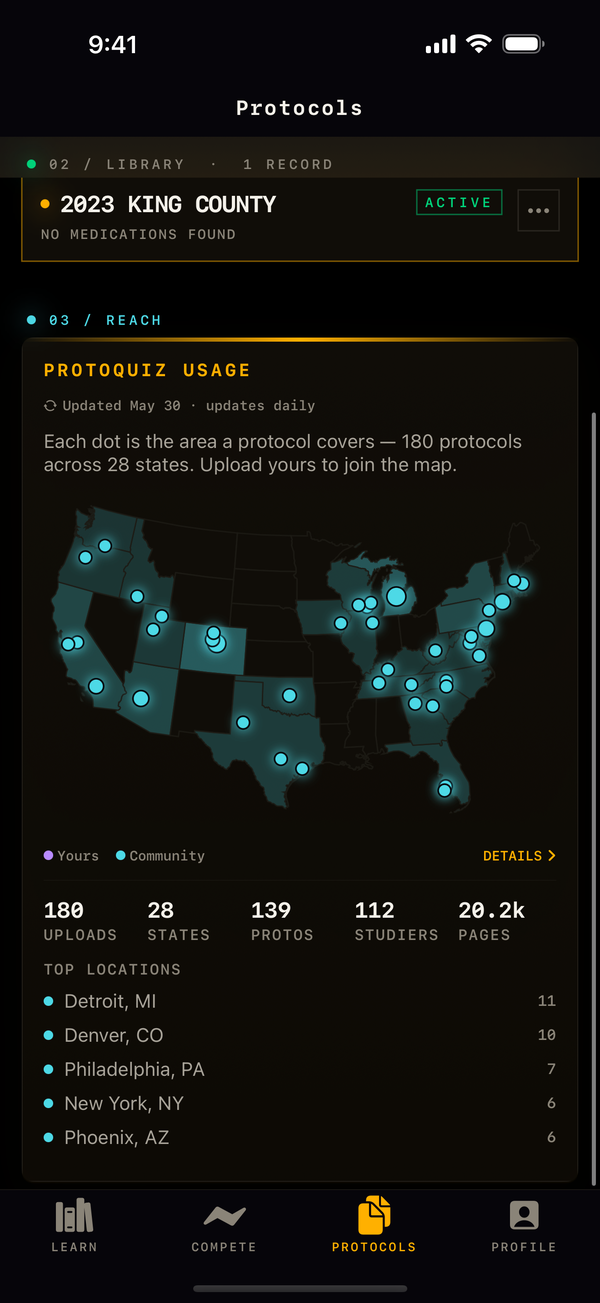
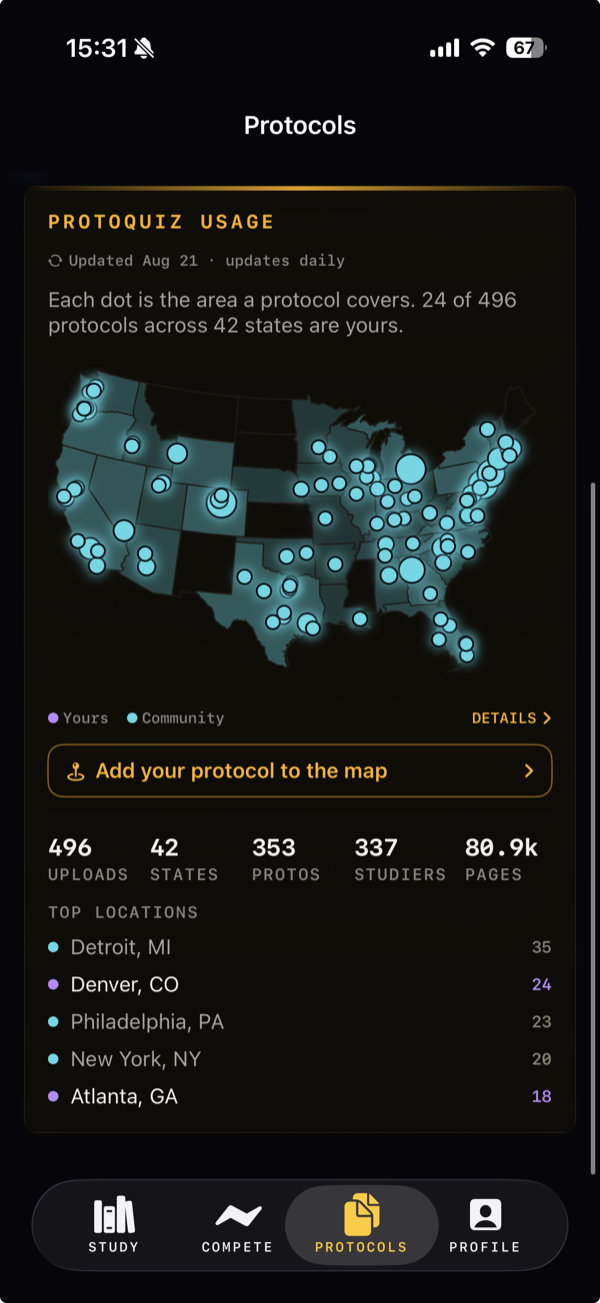
app: tabbed screenshot showcase, refresh protocols shot
Six 180px frames were too small to read, dimmed by a brightness/sepia
filter, and cropped by object-fit:cover. Replaced with a tabbed showcase:
one screen at a time in a CSS device frame, full screenshot uncropped, no
filter, with a headline and copy for each. Tabs are keyboard-navigable
(arrow keys, roving tabindex).

Protocols screenshot updated to the Aug 21 build (496 uploads / 42 states,
was 180 / 28); previous file kept in app-shots/backup/.

diff --git a/index.html b/index.html
@@ -1427,32 +1427,73 @@
       color:var(--ink-soft);
     }
 
-    .app-shots{
+    .shot-tabs{
+      display:flex;
+      border-bottom:1px solid var(--line-2);
+      margin-bottom:44px;
+      overflow-x:auto;
+      scrollbar-width:none;
+    }
+    .shot-tabs::-webkit-scrollbar{display:none;}
+    .shot-tab{
+      font-family:var(--mono);
+      font-size:12px;
+      letter-spacing:.12em;
+      text-transform:uppercase;
+      padding:14px 20px;
+      color:var(--muted);
+      cursor:pointer;
+      background:none;
+      border:none;
+      border-bottom:2px solid transparent;
+      margin-bottom:-1px;
+      white-space:nowrap;
+      transition:color .2s, border-color .2s;
+    }
+    .shot-tab:hover{color:var(--ink-soft);}
+    .shot-tab[aria-selected="true"]{color:var(--amber); border-bottom-color:var(--amber);}
+    .shot-tab:focus-visible{outline:2px solid var(--amber); outline-offset:-2px;}
+    .shot-stage{
       display:grid;
-      grid-template-columns:repeat(6, 1fr);
-      gap:18px;
+      grid-template-columns:300px minmax(0,520px);
+      gap:64px;
+      align-items:center;
+      justify-content:center;
     }
-    .shot-cell{position:relative; margin:0;}
-    .shot-frame{
+    .shot-device{
       position:relative;
-      aspect-ratio: 9/19.5;
-      background:var(--bg);
-      border:1px solid var(--line-2);
+      border-radius:26px;
+      padding:6px;
+      background:linear-gradient(160deg,#3a352c,#141118 42%,#0a0810);
+      box-shadow:0 1px 0 rgba(255,255,255,.10) inset, 0 18px 40px -18px rgba(0,0,0,.9);
+    }
+    .shot-device::after{
+      content:"";
+      position:absolute; left:50%; transform:translateX(-50%); top:6px;
+      width:26%; height:15px; background:#000;
+      border-radius:0 0 11px 11px; z-index:2;
+    }
+    .shot-screen{
+      position:relative;
+      border-radius:20px;
       overflow:hidden;
-      transition:border-color .25s, transform .25s;
+      background:#000;
+      aspect-ratio:9/19.5;
+      border:1px solid rgba(0,0,0,.85);
     }
-    .shot-cell:hover .shot-frame{
-      border-color:var(--amber);
-      transform:translateY(-3px);
+    .shot-screen img{display:block; width:100%; height:auto;}
+    .shot-screen::after{
+      content:"";
+      position:absolute; inset:0; z-index:3; pointer-events:none;
+      background:linear-gradient(115deg, rgba(255,255,255,.10) 0%, rgba(255,255,255,.03) 16%, transparent 42%);
     }
-    .shot-frame img{
-      display:block; width:100%; height:100%;
-      object-fit:cover;
-      object-position:center top;
-      filter:brightness(.82) saturate(.85) sepia(.08);
+    .shot-copy .shot-kicker{
+      font-family:var(--mono); font-size:11px; letter-spacing:.14em;
+      color:var(--amber); text-transform:uppercase;
+      display:block; margin-bottom:16px;
     }
-    .shot-cell:not(:first-child):not(:last-child):nth-child(odd) .shot-frame{transform:translateY(12px);}
-    .shot-cell:not(:first-child):not(:last-child):nth-child(odd):hover .shot-frame{transform:translateY(9px);}
+    .shot-copy h3{font-size:26px; margin:0 0 14px; letter-spacing:-.01em;}
+    .shot-copy p{color:var(--ink-soft); font-size:16px; line-height:1.65; margin:0; max-width:52ch;}
 
     .compete-grid{
       display:grid;
@@ -2068,7 +2109,10 @@
       .section-tag{padding-top:0;}
       .wedge-list{grid-template-columns:1fr; border-top:1px solid var(--line-2);}
       .wedge-item{border-right:none;}
-      .app-shots{grid-template-columns:repeat(3, 1fr); gap:14px;}
+      .shot-stage{grid-template-columns:1fr; gap:34px; justify-items:center;}
+      .shot-device{max-width:280px;}
+      .shot-copy{text-align:center;}
+      .shot-copy p{margin:0 auto;}
       .compete-grid{grid-template-columns:1fr; gap:32px;}
       .founder{padding:96px 0;}
       .final{padding:96px 0;}
@@ -2077,8 +2121,7 @@
       h1{font-size:32px;}
       .hero-cta{flex-direction:column; align-items:stretch;}
       .hero-cta .btn{justify-content:center;}
-      .app-shots{grid-template-columns:repeat(2, 1fr); gap:12px;}
-      .shot-cell .shot-frame{transform:none !important;}
+      .shot-tab{padding:12px 14px; font-size:11px;}
       footer .wrap{flex-direction:column; align-items:center; text-align:center;}
     }
   </style>
@@ -2418,13 +2461,26 @@
           </div>
         </div>
 
-        <div class="app-shots">
-          <figure class="shot-cell" data-screen-slot="app-1"><div class="shot-frame"><img src="app-shots/app-1.png" alt="Learn hub showing Pharmacology, Algorithms, and Scenarios study cards" width="600" height="1303" loading="lazy"></div></figure>
-          <figure class="shot-cell" data-screen-slot="app-2"><div class="shot-frame"><img src="app-shots/app-2.png" alt="Pharmacology drug menu with medication categories" width="600" height="1303" loading="lazy"></div></figure>
-          <figure class="shot-cell" data-screen-slot="app-3"><div class="shot-frame"><img src="app-shots/app-3.png" alt="Algorithm Quiz Builder with topic selection and question count" width="600" height="1303" loading="lazy"></div></figure>
-          <figure class="shot-cell" data-screen-slot="app-4"><div class="shot-frame"><img src="app-shots/app-4.png" alt="DISPATCH siren screen with scenario call details" width="600" height="1303" loading="lazy"></div></figure>
-          <figure class="shot-cell" data-screen-slot="app-5"><div class="shot-frame"><img src="app-shots/app-5.png" alt="Compete mode with challenge room and leaderboard" width="600" height="1303" loading="lazy"></div></figure>
-          <figure class="shot-cell" data-screen-slot="app-6"><div class="shot-frame"><img src="app-shots/app-6.png" alt="Reach map showing protocol coverage across US agencies" width="600" height="1303" loading="lazy"></div></figure>
+        <div class="shot-tabs" role="tablist" aria-label="App screens">
+          <button class="shot-tab" role="tab" aria-selected="true" aria-controls="shotPanel" data-i="0">Learn</button>
+          <button class="shot-tab" role="tab" aria-selected="false" aria-controls="shotPanel" data-i="1">Pharmacology</button>
+          <button class="shot-tab" role="tab" aria-selected="false" aria-controls="shotPanel" data-i="2">Quiz builder</button>
+          <button class="shot-tab" role="tab" aria-selected="false" aria-controls="shotPanel" data-i="3">Scenarios</button>
+          <button class="shot-tab" role="tab" aria-selected="false" aria-controls="shotPanel" data-i="4">Compete</button>
+          <button class="shot-tab" role="tab" aria-selected="false" aria-controls="shotPanel" data-i="5">Protocols</button>
+        </div>
+
+        <div class="shot-stage" id="shotPanel" role="tabpanel">
+          <div class="shot-device">
+            <div class="shot-screen">
+              <img id="shotImg" src="app-shots/app-1.png" alt="Learn hub showing Pharmacology, Algorithms, and Scenarios study cards" width="600" height="1303" loading="lazy">
+            </div>
+          </div>
+          <div class="shot-copy">
+            <span class="shot-kicker" id="shotKicker">01 / Learn hub</span>
+            <h3 id="shotTitle">Pick what to study.</h3>
+            <p id="shotBody">Pharmacology, algorithms, and scenarios &mdash; every question built from the protocols your agency actually runs.</p>
+          </div>
         </div>
       </div>
     </section>
@@ -3750,6 +3806,48 @@
     document.querySelector('.reach-zoom-in')?.addEventListener('click', () => activeZoom()?.zoomIn());
     document.querySelector('.reach-zoom-out')?.addEventListener('click', () => activeZoom()?.zoomOut());
     document.querySelector('.reach-zoom-reset')?.addEventListener('click', () => activeZoom()?.reset());
+
+    // App section: tabbed screenshot showcase
+    (function(){
+      const SHOTS = [
+        ['01 / Learn hub','Pick what to study.','Pharmacology, algorithms, and scenarios \u2014 every question built from the protocols your agency actually runs.','Learn hub showing Pharmacology, Algorithms, and Scenarios study cards'],
+        ['02 / Pharmacology','Every drug you carry.','Doses, indications, and contraindications pulled from your own formulary \u2014 not a generic drug reference.','Pharmacology drug menu with medication categories'],
+        ['03 / Quiz builder','Build the test you need.','Pick a topic and a question count. Questions are generated from the algorithms in your protocol set.','Algorithm Quiz Builder with topic selection and question count'],
+        ['04 / Scenarios','Toned out for a call.','Scenarios open the way a real call does \u2014 dispatch information first, then decisions under time pressure.','DISPATCH siren screen with scenario call details'],
+        ['05 / Compete','Challenge your partner.','Go head-to-head on pharmacology, algorithms, or scenarios. Worldwide leaderboard.','Compete mode with challenge room and leaderboard'],
+        ['06 / Protocols','496 uploads. 42 states.','Every dot is an area a protocol covers. Upload your own and it joins the map.','Protocols usage map showing protocol coverage across 42 states']
+      ];
+      const tabs = [...document.querySelectorAll('.shot-tab')];
+      const img = document.getElementById('shotImg');
+      const kicker = document.getElementById('shotKicker');
+      const title = document.getElementById('shotTitle');
+      const body = document.getElementById('shotBody');
+      if (!tabs.length || !img) return;
+
+      function select(i){
+        tabs.forEach((t,n) => {
+          t.setAttribute('aria-selected', n === i ? 'true' : 'false');
+          t.tabIndex = n === i ? 0 : -1;
+        });
+        img.src = 'app-shots/app-' + (i+1) + '.png';
+        img.alt = SHOTS[i][3];
+        kicker.textContent = SHOTS[i][0];
+        title.textContent = SHOTS[i][1];
+        body.textContent = SHOTS[i][2];
+      }
+
+      tabs.forEach((t,i) => {
+        t.tabIndex = i === 0 ? 0 : -1;
+        t.addEventListener('click', () => select(i));
+        t.addEventListener('keydown', e => {
+          if (e.key !== 'ArrowRight' && e.key !== 'ArrowLeft') return;
+          e.preventDefault();
+          const next = (i + (e.key === 'ArrowRight' ? 1 : tabs.length - 1)) % tabs.length;
+          tabs[next].focus();
+          select(next);
+        });
+      });
+    })();
   </script>
 </body>
 </html>
